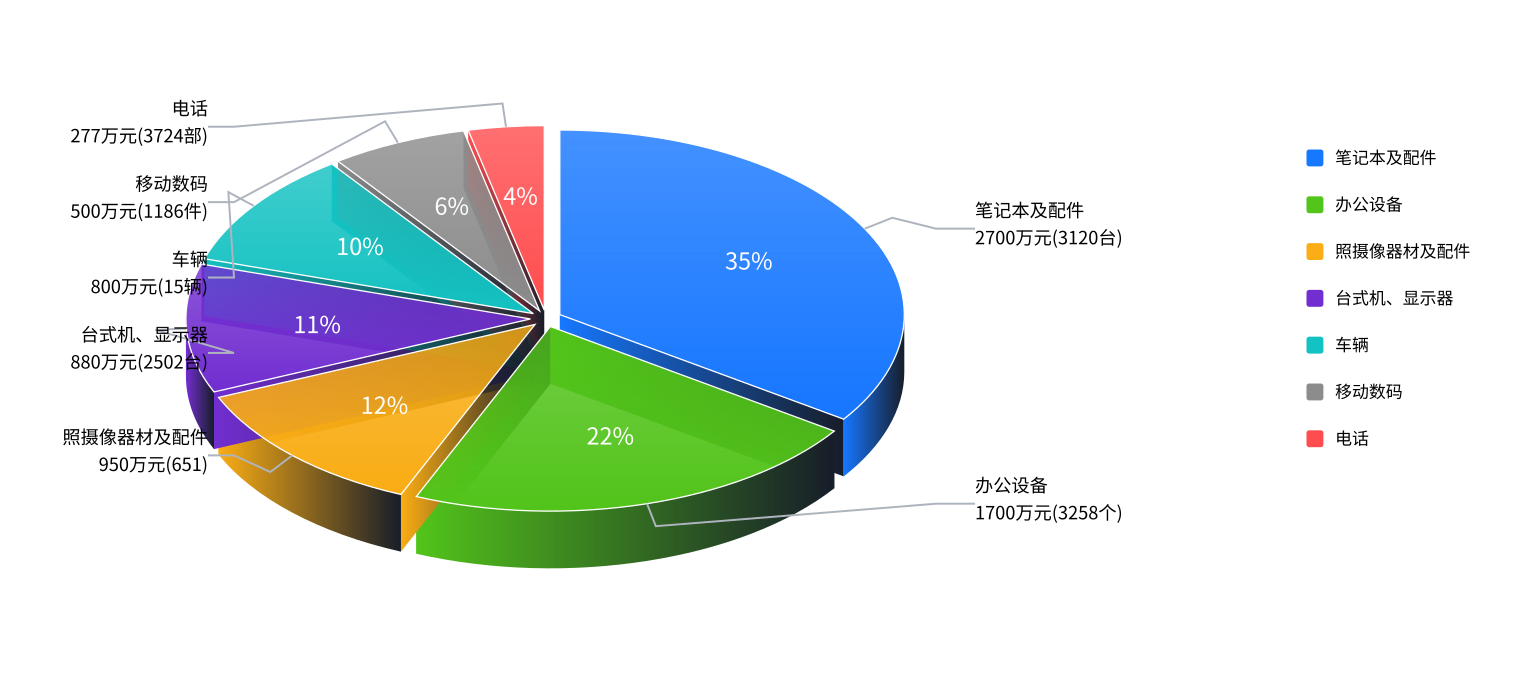
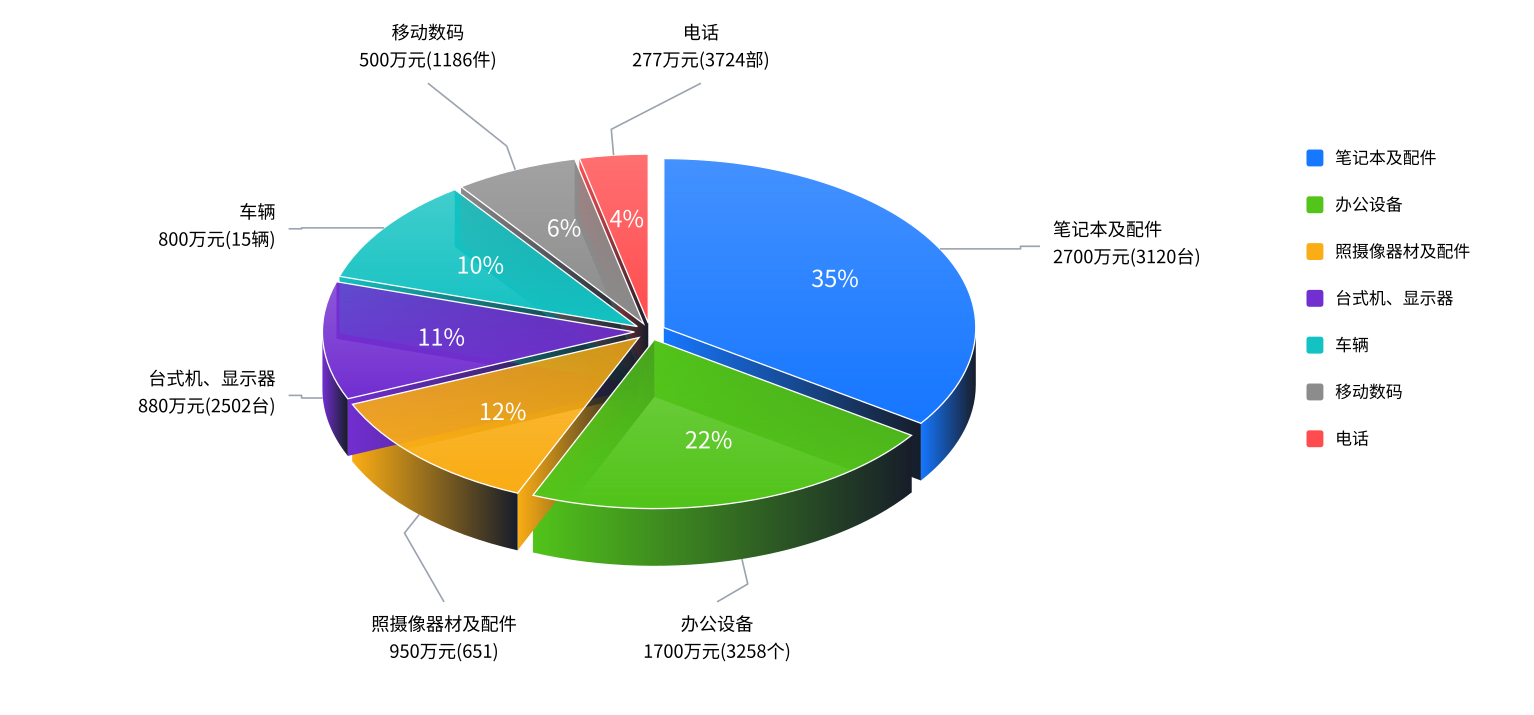
fix: align report headers and route 3D pie labels outside chart

diff --git a/src/pages/assetInventory/InventoryDistribution3D.jsx b/src/pages/assetInventory/InventoryDistribution3D.jsx
@@ -4,18 +4,38 @@ import { buildExtrudedPie } from './inventoryPieGeometry';
 
 export default function InventoryDistribution3D({ rows }) {
   const id = useId().replace(/:/g, '');
-  const sectors = buildExtrudedPie(rows);
-  const labelRows = [...sectors].sort((a, b) => a.edge[1] - b.edge[1]);
-  // 左右分别排标签，保证图中文字不会因小扇区聚集而重叠。
-  const labelY = {};
-  [true, false].forEach(right => {
-    const side = labelRows.filter(row => (Math.cos(row.mid) >= 0) === right);
-    let previous = 28;
-    side.forEach(row => { labelY[row.index] = Math.max(previous + 58, Math.min(420, row.edge[1])); previous = labelY[row.index]; });
-    const overflow = Math.max(0, previous - 430);
-    side.forEach(row => { labelY[row.index] -= overflow; });
+  const sectors = buildExtrudedPie(rows, { cx: 500, cy: 255, rx: 240, ry: 130 });
+  const labels = sectors.map(row => {
+    const sine = Math.sin(row.mid);
+    const region = sine < -0.65 ? 'top' : sine > 0.65 ? 'bottom' : Math.cos(row.mid) >= 0 ? 'right' : 'left';
+    // 前半圆的标签从可见侧壁下缘引出，避免引导线穿过顶面或百分比。
+    const start = [row.edge[0], row.edge[1] + (sine > 0 ? 44 : 0)];
+    return { ...row, region, start };
   });
-  return <svg role="img" aria-label="资产类型分布立体对比图" viewBox="0 0 1180 520" style={{ fontFamily: 'Noto Sans CJK SC, Noto Sans SC, Arial, sans-serif', width: '100%', height: 'auto', display: 'block', color: '#434343' }}>
+  ['top', 'bottom'].forEach(region => {
+    const group = labels.filter(row => row.region === region).sort((a, b) => a.start[0] - b.start[0]);
+    group.forEach((row, index) => {
+      const middle = group.reduce((sum, item) => sum + item.start[0], 0) / group.length;
+      row.x = Math.max(290, Math.min(760, middle + (index - (group.length - 1) / 2) * 210));
+      row.y = region === 'top' ? 30 : 485;
+      row.anchor = 'middle';
+      const bend = [row.start[0] + 16 * Math.cos(row.mid), row.start[1] + 20 * Math.sin(row.mid)];
+      row.points = [row.start, bend, [row.x, region === 'top' ? 64 : 463]];
+    });
+  });
+  ['left', 'right'].forEach(region => {
+    const group = labels.filter(row => row.region === region).sort((a, b) => a.start[1] - b.start[1]);
+    let previous = 100;
+    group.forEach(row => {
+      row.x = region === 'left' ? 212 : 810;
+      row.y = Math.max(row.start[1] - 10, previous + 68);
+      previous = row.y;
+      row.anchor = region === 'left' ? 'end' : 'start';
+      const bendX = region === 'left' ? 232 : 785;
+      row.points = [row.start, [bendX, row.start[1]], [bendX, row.y + 8], [row.x + (region === 'left' ? 10 : -10), row.y + 8]];
+    });
+  });
+  return <svg role="img" aria-label="资产类型分布立体对比图" viewBox="0 0 1180 550" style={{ fontFamily: 'Noto Sans CJK SC, Noto Sans SC, Arial, sans-serif', width: '100%', height: 'auto', display: 'block', color: '#434343' }}>
     <defs>{sectors.map(row => <React.Fragment key={row.index}>
       <linearGradient id={`${id}-top-${row.index}`} x1="0" y1="0" x2="0" y2="1"><stop offset="0" stopColor={row.fill} stopOpacity="0.8" /><stop offset="1" stopColor={row.fill} /></linearGradient>
       <linearGradient id={`${id}-side-${row.index}`} x1="0" y1="0" x2="1" y2="0"><stop offset="0" stopColor={row.fill} /><stop offset="1" stopColor="#171d29" /></linearGradient>
@@ -26,19 +46,12 @@ export default function InventoryDistribution3D({ rows }) {
       <path d={row.top} fill={`url(#${id}-top-${row.index})`} stroke="#fff" strokeWidth="1"><title>{`${row.category}：${Math.round(row.original / 10000)}万元，${Math.round(row.quantity)}${row.quantityUnit || ''}，${distributionPercent(row.fraction)}`}</title></path>
       <text x={row.label[0]} y={row.label[1]} fill="#fff" textAnchor="middle" dominantBaseline="middle" fontSize="18" fontWeight="600">{distributionPercent(row.fraction)}</text>
     </g>)}
-    {sectors.map(row => {
-      const right = Math.cos(row.mid) >= 0;
-      const x = right ? 750 : 160;
-      const y = labelY[row.index];
-      const elbow = right ? 720 : 180;
-      const outward = [row.edge[0] + 24 * Math.cos(row.mid), row.edge[1] + 18 * Math.sin(row.mid)];
-      return <g key={`label-${row.index}`}>
-        <polyline points={`${row.edge[0]},${row.edge[1]} ${outward[0]},${outward[1]} ${elbow},${y} ${x},${y}`} fill="none" stroke="#aeb4be" strokeWidth="1.5" />
-        <text x={x} y={y - 9} textAnchor={right ? 'start' : 'end'} fontSize="14">
-          <tspan x={x}>{row.category}</tspan><tspan x={x} dy="21">{`${Math.round(row.original / 10000)}万元(${Math.round(row.quantity)}${row.quantityUnit || ''})`}</tspan>
-        </text>
-      </g>;
-    })}
+    {labels.map(row => <g key={`label-${row.index}`}>
+      <polyline points={row.points.map(point => point.join(',')).join(' ')} fill="none" stroke="#9aa3af" strokeWidth="1.25" strokeLinejoin="round" />
+      <text x={row.x} y={row.y} textAnchor={row.anchor} fontSize="14">
+        <tspan x={row.x}>{row.category}</tspan><tspan x={row.x} dy="21">{`${Math.round(row.original / 10000)}万元(${Math.round(row.quantity)}${row.quantityUnit || ''})`}</tspan>
+      </text>
+    </g>)}
     <g transform="translate(1005,115)">{sectors.map((row, index) => <g key={row.index} transform={`translate(0,${index * 36})`}>
       <rect width="13" height="13" rx="2" fill={row.fill} /><text x="22" y="11" fontSize="13">{row.category}</text>
     </g>)}</g>

diff --git a/src/pages/assetInventory/InventoryReportCharts.jsx b/src/pages/assetInventory/InventoryReportCharts.jsx
@@ -92,7 +92,7 @@ export default function InventoryReportCharts({ report }) {
     </section></Card>
     <Card size="small" title="资产类型分布（按原值）—立体对比版">
       <InventoryDistribution3D rows={pie} />
-      <div style={{ display: 'flex', justifyContent: 'flex-end' }}><DistributionTable rows={pie} total={originalTotal} /></div>
+      <div style={{ display: 'flex', justifyContent: 'center' }}><DistributionTable rows={pie} total={originalTotal} /></div>
     </Card>
     <Card size="small" title="资产增量情况" style={{ width: '100%' }}><IncrementTable year={report.year} /></Card>
     <Card size="small" title="资产盘亏趋势">

diff --git a/src/pages/assetInventory/inventoryReport.css b/src/pages/assetInventory/inventoryReport.css
@@ -1,5 +1,2 @@
-/* 只作用于盘点报表，其他模块的卡片与表格不受影响。 */
-.inventory-report .ant-card-head-title { text-align: center; }
-.inventory-report .ant-card-head-wrapper { position: relative; justify-content: center; }
-.inventory-report .ant-card-extra { position: absolute; right: 0; }
-.inventory-report .ant-card-head-title { padding-inline: 80px; }
+/* 只居中盘点报表的列标题；Card区块标题及右侧附加信息使用原生布局。 */
+.inventory-report .ant-table-thead > tr > th { text-align: center; }

diff --git a/progress.md b/progress.md
@@ -1017,3 +1017,9 @@ PRD正文同口径32865→32804，减少61（0.19%）：删旧盘点规则及散
 - 年度期间全入口共用2014年至当前年逐年选项，默认当前年；保存及生成快照拦非法/越界年度值，季度/月度不变，关联初盘带入仍保留。正式PRD按本轮去Markdown/空白及HTML标记一致重算48738→48861，+123（0.25%）；与上轮统计基线有41字符的口径差，本轮前后均按同一方法重算，不将口径差当作业务正文删减。混合单位问题已回正文，不继续待问。
 - 相关12套程序测试98通过0失败；图形修正后实际SVG与几何2项复验通过。实现Lint0错误0警告，diff空白检查通过；最终生产构建通过，main.c465a625.js source map与9个实现源一致，作用域CSS已入包；最后导出25项复验通过，不重复计入98项。
 - 附件与组件渲染PNG已实际查看，修正标签裁切、引导线及中文渲染；PNG是源组件直接SVG渲染，不是页面截图。sites-preview进程/云浏览器仍无法连通terminal.local:4173，未通过浏览器验收，根design-qa.md明确blocked；没有称线上新版或整页视觉已验证。
+
+## 2026-10-25 表格标题与立体引导线修正
+
+- 撤销误加的Card标题居中、80px标题padding及extra绝对定位，只保留表格列标题居中；原文本居中/数值右齐不变。立体版下方分类表改居中，原平面分类表保持右齐。
+- 立体图中心及半径调整留出外标区域，标签按上/下/左/右分组排列，前侧引导线从侧壁下缘引出，避免划过顶面和占比。实际查看重新渲染的源组件PNG，核对标签文字不遮挡且能对应扇区；PNG保持SVG原比例，无裁切，不称浏览器截图。
+- 仅改页面视觉、UI规范和纠错经验，PRD、数据、单位、数量、角度占比和导出未改变。定向测试11通过0失败，实施文件Lint0错误0警告，diff空白检查通过；生产构建通过，main.c4a48e81.js source map与2个实现源一致，误加Card居中CSS未入包；浏览器整页验证仍未完成，design-qa保持blocked。

diff --git a/CONTEXT.md b/CONTEXT.md
@@ -1,3 +1,5 @@
+2026-10-25：纠正表格标题理解：仅列标题居中，Card区块标题及extra恢复原生布局；立体图外标按四方位分区，前侧从侧壁下缘引出，已看组件渲染无文字遮挡；立体分类表居中、原平面表仍右齐。验证/构建结果见progress最新条目；无新版浏览器实拍，PRD未变。
+
 2026-10-25：本轮四项已改：单位取物料参考，混合用件（用户明确选择）、车辆辆/电话部；照摄像参考未覆盖，不补造。盘点报表标题/表头居中，文本居中、度量数值右齐；原分布图下追加同数据立体对比（无新增业务数据/重复导出）。年度期间2014年至当前年，默认当前年，保存/快照校验已补。程序98通过0失败，最终构建通过、9个实现源与产物一致，交付见progress；浏览器预览拒绝连接，design-qa为blocked。已有组件SVG渲染PNG，非页面截图。
 
 2026-10-25：报表十项反馈已实施并同步PRD4.12：固定范围/IP电话文案、六月净值表头、当前年行底色、两处增量空备注及Excel F列、指标居中/分类表靠右、去页面演示文字、整数万元/整数分布占比、四轴步长及常显图数据标签。分公司权限归创建阶段，撤报告二次筛选；正式项目取数和创建权限母集接入仍见INV-66，不伪称已接。72通过0失败、构建main.a80b199c.js与7实现源一致；实际SVG标签已测，新版浏览器视觉未验。PRD48495→48779（+284，0.59%）。

diff --git a/design-qa.md b/design-qa.md
@@ -7,3 +7,7 @@ final result: blocked
 参考：本轮附件image(1).png。实现：InventoryDistribution3D.jsx；组件直接渲染图见docs/asset-inventory/screenshots/inventory-distribution-3d-20261025.png。已实际查看参考图与组件渲染结果，核对厚度、分离扇区、外部分类/金额/数量、内部比例及图例，修正了长标签裁切和引导线穿越主图的主要问题。该PNG是源组件的SVG渲染，不是浏览器截图。
 
 阻塞：sites-preview已按规定启动，云浏览器访问http://terminal.local:4173/返回ERR_CONNECTION_REFUSED。无法在同一浏览器视口核对整页、表格对齐及交互，不将构建/组件渲染当作浏览器通过。原型代码与数据测试可交付，视觉验收仍待浏览器可用。
+
+## 本轮纠正
+
+用户澄清仅表格列标题居中，Card区块标题已恢复原生对齐；立体版表格居中，原平面版表格靠右。立体外标改按方位分区，上下标签与左右标签分别排列，前侧引导线从侧壁下缘引出。已重新实际查看源组件渲染结果，外标不再跨越图体/内部占比，文字没有重叠。本轮仍不是浏览器页面实拍，final result保持blocked。

diff --git a/lessons.md b/lessons.md
@@ -155,3 +155,5 @@ PO行的下一批准备数量不能因代码存在草稿引用就解释为编辑
 - 新执行渠道写入有效结果后，同步检查旧审核待办、审批前置与关闭条件；不能仅让列表显示新状态，却仍由旧待审核记录阻断后续流程。历史保留与当前待处理事项分开判定。
 
 - 自动列宽不能将全部普通文字列视为填充列；分类/指标按最长值计算，说明类才按百分位。测量须计入表头字体、边框及安全余量，叶子表头保持完整单行。紧凑表格与承载Card宽度分别控制，不能把表格收窄扩大成整块白底收窄。
+
+- 表格列标题与Card区块标题分开理解；用户要求表标题居中时先定位表头，不能把资产变化范围等区块标题一起改。立体饼图引导线须从可见外缘引出并按方位排标签，不能统一拉到左右固定坐标而穿过图体。
